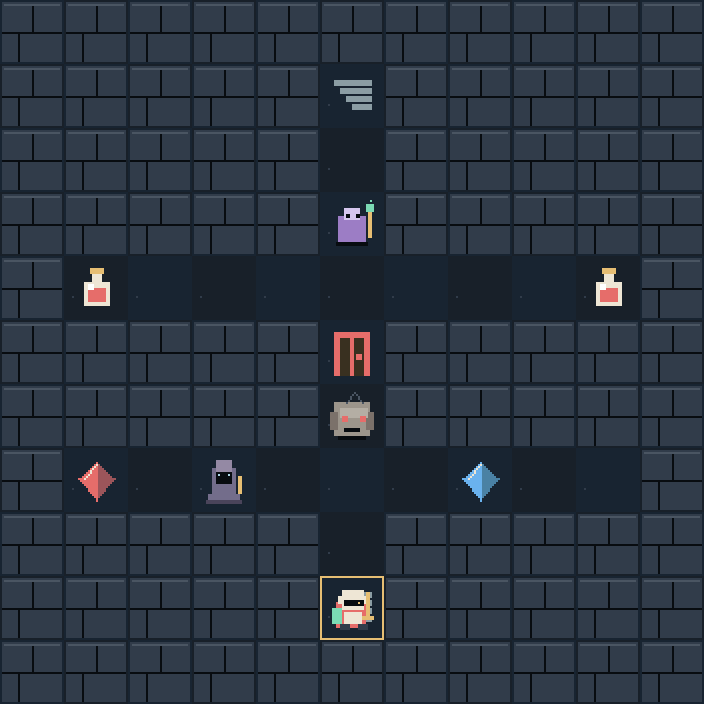
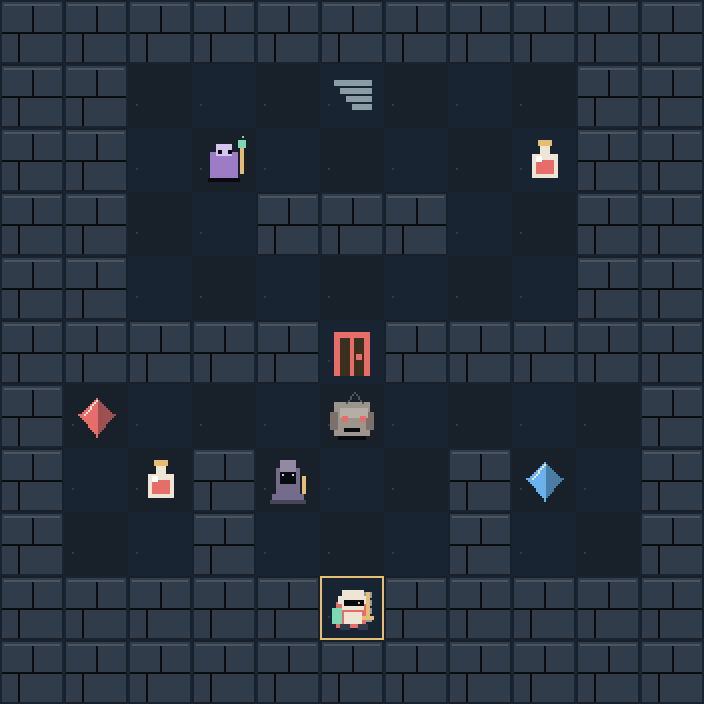
docs: capture campaign frames from the C host and refresh map shots
- Replay the generated win route through the shared C Host so docs/images come
  from the project renderer instead of stale captures of the previous map
- Photograph the lock prompt, the floor 3/4/5 NPC key hints, the first fight,
  the first pickup gain, the merchant price ladder and the summit
- Refresh the README shot table with combat, shop and summit frames, list the
  strategy and glyph tests, and spell out the v3 rejection (new journey, no
  NVS erasing)
- Replace the stale roadmap "map design pass" entry with the larger-map plan

Changed region(s): [[0.0938, 0.0938, 0.9062, 0.4688], [0.0938, 0.5312, 0.4688, 0.8125], [0.5312, 0.5312, 0.9062, 0.8125]]

diff --git a/tools/capture_screens.py b/tools/capture_screens.py
@@ -1,55 +1,234 @@
 #!/usr/bin/env python3
-"""Capture title/dungeon/combat screenshots in both languages."""
+"""Capture real C-Host screenshots for the docs and the campaign review.
+
+Run from the official workspace copy of the project: the shared Host engine is
+resolved relative to that workspace. Every image comes from the project's own C
+renderer through the official Host ABI; this script only drives the game and
+crops the 11x11 dungeon out of those frames. It never reimplements rendering or
+map logic.
+"""
 import importlib.util
-import os
+import io
+import json
 from pathlib import Path
+import re
 import sys
+
+from PIL import Image
 
 PROJECT = Path(__file__).resolve().parents[1]
 WORKSPACE = PROJECT.parents[1]
 ARTIFACTS = PROJECT / "artifacts"
+IMAGES = PROJECT / "docs" / "images"
 HOST = WORKSPACE / "submodule/raylib-lite-engine/host/run_game.py"
+CODES = {"left": 0, "right": 1, "up": 2, "down": 5, "confirm": 6}
+# tower_status_t, in declaration order.
+NEED_KEY, DOOR, TALK = 3, 5, 14
+LANG_CHIP = (437, 18)
+START_BUTTON = (240, 299)
+NEW_GAME_YES = (285, 280)
+SHOP_ATTACK = (240, 240)
+SHOP_LEAVE = (240, 340)
+
 spec = importlib.util.spec_from_file_location("mosaico_native_host", HOST)
 host = importlib.util.module_from_spec(spec)
 sys.modules[spec.name] = host
 spec.loader.exec_module(host)
 
 
-def press(rt, code):
-    rt.action(code, True)
-    rt.action(code, False)
+def press(runtime, action):
+    runtime.action(CODES[action], True)
+    runtime.action(CODES[action], False)
 
 
-def frame(rt, name):
-    (ARTIFACTS / name).write_bytes(rt.frame())
+def tap(runtime, x, y):
+    runtime.pointer(0, x, y, True)
+    runtime.pointer(0, x, y, False)
 
 
-def main():
-    rt = host.GenericHostRuntime(PROJECT, ARTIFACTS)
-    frame(rt, "title_zh.png")
-    rt.pointer(0, 437, 18, True)
-    rt.pointer(0, 437, 18, False)
-    frame(rt, "title_en.png")
-    rt.pointer(0, 437, 18, True)
-    rt.pointer(0, 437, 18, False)
-    rt.pointer(0, 240, 299, True)
-    rt.pointer(0, 240, 299, False)
+def frame(runtime, name):
+    data = runtime.frame()
+    (ARTIFACTS / name).write_bytes(data)
+    return data
+
+
+def map_geometry():
+    config = (PROJECT / "main" / "game_config.h").read_text(encoding="utf-8")
+    values = {}
+    for name in ("GAME_MAP_X", "GAME_MAP_Y", "GAME_TILE"):
+        match = re.search(rf"{name}\s*=\s*(\d+)", config)
+        if not match:
+            raise RuntimeError(f"missing {name} in game_config.h")
+        values[name] = int(match.group(1))
+    return values["GAME_MAP_X"], values["GAME_MAP_Y"], values["GAME_TILE"]
+
+
+def floor_crop(data, geometry, target):
+    left, top, tile = geometry
+    image = Image.open(io.BytesIO(data))
+    crop = image.crop((left, top, left + tile * 11, top + tile * 11))
+    crop = crop.resize((tile * 22, tile * 22), Image.Resampling.NEAREST)
+    crop.save(target)
+
+
+def start_journey(runtime):
+    """Reach floor one from the title screen with the default language."""
+    assert runtime.metadata()["phase"] == "title"
+    tap(runtime, *START_BUTTON)
+    state = runtime.metadata()
+    assert state["phase"] == "playing", state
+    assert (state["floor"], state["x"], state["y"]) == (0, 5, 9), state
+    return state
+
+
+def new_journey(runtime):
+    runtime.control(3)
+    if runtime.metadata()["phase"] == "new_confirm":
+        tap(runtime, *NEW_GAME_YES)
+    state = runtime.metadata()
+    assert (state["phase"], state["floor"], state["x"], state["y"]) == \
+        ("playing", 0, 5, 9), state
+    return state
+
+
+def capture_blocked_key(runtime, geometry):
+    """Bump the floor-one yellow door without its key."""
     for _ in range(3):
-        rt.step(False, False, False)
-    frame(rt, "dungeon_zh.png")
-    press(rt, 2)      # up to potion
-    press(rt, 0); press(rt, 0)
-    press(rt, 2)      # into slime -> combat
-    frame(rt, "combat_zh.png")
-    press(rt, 6)      # confirm
-    for _ in range(2):
-        rt.step(False, False, False)
-    rt.pointer(0, 437, 18, True)
-    rt.pointer(0, 437, 18, False)
-    frame(rt, "dungeon_en.png")
-    rt.close()
-    print("captured")
+        press(runtime, "up")
+    state = runtime.metadata()
+    assert state["status"] == NEED_KEY, state
+    # Two steps north, then the locked floor-one yellow door refuses the third.
+    assert state["floor"] == 0 and (state["x"], state["y"]) == (5, 7), state
+    data = frame(runtime, "blocked_key_zh.png")
+    floor_crop(data, geometry, ARTIFACTS / "blocked_key.png")
+    return state
+
+
+def campaign_captures():
+    geometry = map_geometry()
+    runtime = host.GenericHostRuntime(PROJECT, ARTIFACTS)
+    try:
+        (IMAGES).mkdir(parents=True, exist_ok=True)
+        (ARTIFACTS / "title.png").write_bytes(runtime.frame())
+        (IMAGES / "title.png").write_bytes((ARTIFACTS / "title.png").read_bytes())
+        start_journey(runtime)
+        dungeon = frame(runtime, "dungeon_zh.png")
+        (IMAGES / "gameplay.png").write_bytes(dungeon)
+        (IMAGES / "dungeon.png").write_bytes(dungeon)
+
+        blocked = capture_blocked_key(runtime, geometry)
+        new_journey(runtime)
+
+        tap(runtime, *LANG_CHIP)
+        assert runtime.metadata()["lang"] == "en"
+        frame(runtime, "dungeon_en.png")
+        tap(runtime, *LANG_CHIP)
+        assert runtime.metadata()["lang"] == "zh"
+
+        floors, dialogs = set(), set()
+        saw_combat = saw_shop = saw_door = saw_gain = False
+        previous = runtime.metadata()
+        final = None
+
+        def floor_frame():
+            state = runtime.metadata()
+            floor = int(state["floor"])
+            floors.add(floor)
+            data = frame(runtime, f"floor{floor + 1}_full_zh.png")
+            floor_crop(data, geometry, IMAGES / f"floor{floor + 1}.png")
+            if state["cleared"]:
+                (ARTIFACTS / "campaign_cleared.png").write_bytes(data)
+
+        floor_frame()
+        route = json.loads((PROJECT / "tests" / "win_route.json").read_text())
+        for action in route["actions"]:
+            press(runtime, action)
+            state = runtime.metadata()
+            floor = int(state["floor"])
+            if floor not in floors:
+                floor_frame()
+            if state["status"] == TALK and floor not in dialogs:
+                dialogs.add(floor)
+                data = frame(runtime, f"npc_floor{floor + 1}_zh.png")
+                if floor == 0:
+                    (IMAGES / "npc-dialogue.png").write_bytes(data)
+            if state["status"] == DOOR:
+                saw_door = True
+            if state["phase"] == "combat" and not saw_combat:
+                saw_combat = True
+                frame(runtime, "combat_zh.png")
+            if state["phase"] == "shop" and not saw_shop:
+                saw_shop = True
+                frame(runtime, "shop_zh.png")
+            gained = (
+                state["attack"] > previous["attack"] or
+                state["defence"] > previous["defence"] or
+                state["gold"] > previous["gold"] or
+                sum(state["keys"]) > sum(previous["keys"]) or
+                state["hp"] > previous["hp"])
+            if gained and not saw_gain:
+                saw_gain = True
+                data = frame(runtime, "pickup-gain.png")
+                (IMAGES / "pickup-gain.png").write_bytes(data)
+            if state["cleared"]:
+                final = frame(runtime, "victory_zh.png")
+                (IMAGES / "summit.png").write_bytes(final)
+                break
+            previous = state
+        else:
+            raise RuntimeError("win route did not clear the tower")
+
+        assert final is not None
+        assert floors == set(range(10)), sorted(floors)
+        assert dialogs, "no NPC dialogue was reached"
+        assert saw_combat and saw_door and saw_gain, (saw_combat, saw_door, saw_gain)
+        (ARTIFACTS / "campaign-state.json").write_text(
+            json.dumps(runtime.metadata(), indent=2), encoding="utf-8")
+        print("blocked-key status:", blocked["status"], "at", blocked["x"], blocked["y"])
+        print("floors:", sorted(f + 1 for f in floors))
+        print("dialogues:", sorted(f + 1 for f in dialogs))
+        print("combat:", saw_combat, "door:", saw_door, "shop in route:", saw_shop)
+    finally:
+        runtime.close()
+
+
+def shop_captures():
+    """Walk the second-floor merchant path and photograph the price ladder."""
+    runtime = host.GenericHostRuntime(PROJECT, ARTIFACTS)
+    try:
+        start_journey(runtime)
+        route = json.loads((PROJECT / "tests" / "win_route.json").read_text())
+        for action in route["actions"]:
+            press(runtime, action)
+            if runtime.metadata()["floor"] == 1:
+                break
+        assert runtime.metadata()["floor"] == 1
+        # Same accepted approach as tests/test_integration.py: reach (1, 5)
+        # beside the merchant, then step onto the shop tile.
+        for action in (["up"] + ["left"] * 4 + ["up"] +
+                       ["right"] * 4 + ["up", "up"] + ["left"] * 4):
+            press(runtime, action)
+        state = runtime.metadata()
+        assert (state["phase"], state["x"], state["y"]) == ("playing", 1, 5), state
+        before = (state["gold"], state["shop_attack"], state["shop_defence"])
+        press(runtime, "up")
+        state = runtime.metadata()
+        assert (state["phase"], state["gold"]) == ("shop", 21), state
+        data = frame(runtime, "shop_zh.png")
+        (IMAGES / "shop.png").write_bytes(data)
+        tap(runtime, *SHOP_ATTACK)
+        state = runtime.metadata()
+        assert (state["gold"], state["attack"], state["shop_attack"]) == (6, 30, 1), state
+        frame(runtime, "shop_after_buy_zh.png")
+        tap(runtime, *SHOP_LEAVE)
+        assert runtime.metadata()["phase"] == "playing"
+        print("shop gold/price before:", before, "after purchase:", state["gold"],
+              state["shop_attack"])
+    finally:
+        runtime.close()
 
 
 if __name__ == "__main__":
-    main()
+    campaign_captures()
+    shop_captures()
+    print("captured", len(list(IMAGES.glob("*.png"))), "doc images")

diff --git a/README.md b/README.md
@@ -18,9 +18,13 @@ The game is a compact, original take on the classic key-and-door dungeon formula
 - **Versioned transactional saves** (2 KiB, FNV checksum + semantic validation) in NVS.
 - **Tear-free output** through GSP TE composition on the real display (opt-in engine setting).
 
-| Exploration | Combat | NPC scene |
+| Exploration | Combat | Merchant |
 |---|---|---|
-| ![Gameplay](docs/images/gameplay.png) | ![Pickup](docs/images/pickup-gain.png) | ![NPC](docs/images/npc-dialogue.png) |
+| ![Gameplay](docs/images/gameplay.png) | ![Combat](docs/images/combat.png) | ![Shop](docs/images/shop.png) |
+
+| NPC scene | Pickup feedback | Summit |
+|---|---|---|
+| ![NPC](docs/images/npc-dialogue.png) | ![Pickup](docs/images/pickup-gain.png) | ![Summit](docs/images/summit.png) |
 
 ## Controls
 
@@ -98,13 +102,18 @@ The gameplay model is portable C and can be tested without hardware.
 
 ```bash
 python tests/test_level_design.py
+python tests/test_ui_glyphs.py
 python tools/magic_tower_route.py
 python tests/run_tests.py --label local
 python -m unittest discover -s tests -p test_guarded_forks.py
+python tests/run_strategy_routes.py
 python tests/test_integration.py   # requires the host Raylib Lite engine
+python tools/capture_screens.py    # regenerates docs/images from the host renderer
 ```
 
-`tests/win_route.json` and `tests/win_route.h` are generated by `tools/magic_tower_route.py`. The planner replays the real map data, including the floor 3/4/5 key detour, and the generated replay route clears all ten floors.
+`tests/win_route.json` and `tests/win_route.h` are generated by `tools/magic_tower_route.py`. The planner replays the real map data, including the floor 3/4/5 key detour, and the generated replay route clears all ten floors. `tests/run_strategy_routes.py` replays all four floor 6 / floor 9 guard combinations in the real C model, exporting and importing the 2 KiB save after every action. `tests/test_ui_glyphs.py` fails when authored text needs a glyph that `main/ui_font.h` does not contain.
+
+`tools/capture_screens.py` and `tests/test_integration.py` must run from an official ESP-Mosaico workspace checkout, because both resolve the shared Host engine next to the project. The screenshot tool drives the game through the Host ABI and only crops the dungeon out of those frames; it does not reimplement rendering.
 
 ## Source layout
 
@@ -128,14 +137,19 @@ Project code is released under the **MIT License**; see [LICENSE](LICENSE). Some
 
 The layout update bumps the NVS save wire version from v3 to v4 so older
 position/map snapshots are rejected instead of being loaded into changed
-geometry. Start a new journey after updating; existing saves are rejected, not
-migrated. This content update leaves the renderer and the device frame policy
-unchanged; on-demand rendering is a separate PR.
+geometry. Start a new journey after updating; a v3 record is rejected rather
+than loaded into the new floors, and until you save again the title screen
+offers no saved journey. There is nothing to repair by hand: **do not erase or
+rewrite NVS** to work around the rejection, because the v3 record is simply
+ignored and a new game begins on floor one. This content update leaves the
+renderer and the device frame policy unchanged; on-demand rendering is a
+separate PR.
 
 ### Guarded-fork strategies and merchant prices
 
 Floors 6 and 9 now have distinct attack/defence reward pockets behind
 individual guardians. Both routes can lead upstairs, but taking the other
 reward still requires defeating its defender. Both merchant attributes use
-a shared rising price (15, 25, 35, ... gold). See
+a shared rising price (15, 25, 35, ... gold): every purchase raises the next
+price by 10 gold for both attributes, while each purchase still grants +3. See
 [design brief](docs/GUARDED_FORK_DESIGN.md).

diff --git a/docs/ROADMAP.md b/docs/ROADMAP.md
@@ -1,15 +1,23 @@
 # Roadmap
 
-## Next: map design pass
+## Shipped
 
-The current ten floors are compact and functional, but the layouts are too
-regular. The next iteration reworks them using the room-and-corridor language
-of the original 21-floor Magic Tower:
+- Hand-authored ten-floor campaign with asymmetric stairs, supply alcoves,
+  dead ends and the floor 3 → 4 → 5 key detour (PR #1).
+- Guarded attack/defence forks on floors 6 and 9, the floor 7 → 8 red-key
+  chain, the floor 5 archive seal, and a shared rising merchant price (PR #6).
+- Replayable route fixtures: one golden route plus four guard combinations
+  replayed in the real C model with a save round-trip after every action.
 
-- asymmetric stair placement, guard rooms, treasure alcoves, and dead ends
-- one-tile corridors mixed with small rooms instead of a central cross
-- tighter key economy and more optional doors/treasure
-- keep the existing floor 3 → 4 → 5 key detour and the ten-floor scope
+## Next: larger map
+
+The campaign fits one 11×11 screen per floor. The next iteration keeps the
+authored floor content but renders a larger floor through a camera that follows
+the player, so rooms can span more than one screen:
+
+- a camera/viewport layer in `game_view.c` instead of a fixed 11×11 grid
+- floors authored at a larger size without changing the tile vocabulary
+- the same portable model tests, extended to the larger geometry
 - regenerate `tests/win_route.json`/`win_route.h` after every map change
 
 ## Later
@@ -18,4 +26,4 @@ of the original 21-floor Magic Tower:
 - optional minimap of visited floors
 - more shop choices and consumable inventory
 - additional chiptune tracks for the boss and ending
-- broader host coverage for the shop and NPC flows
+- on-demand rendering on the device (tracked as a separate performance PR)
